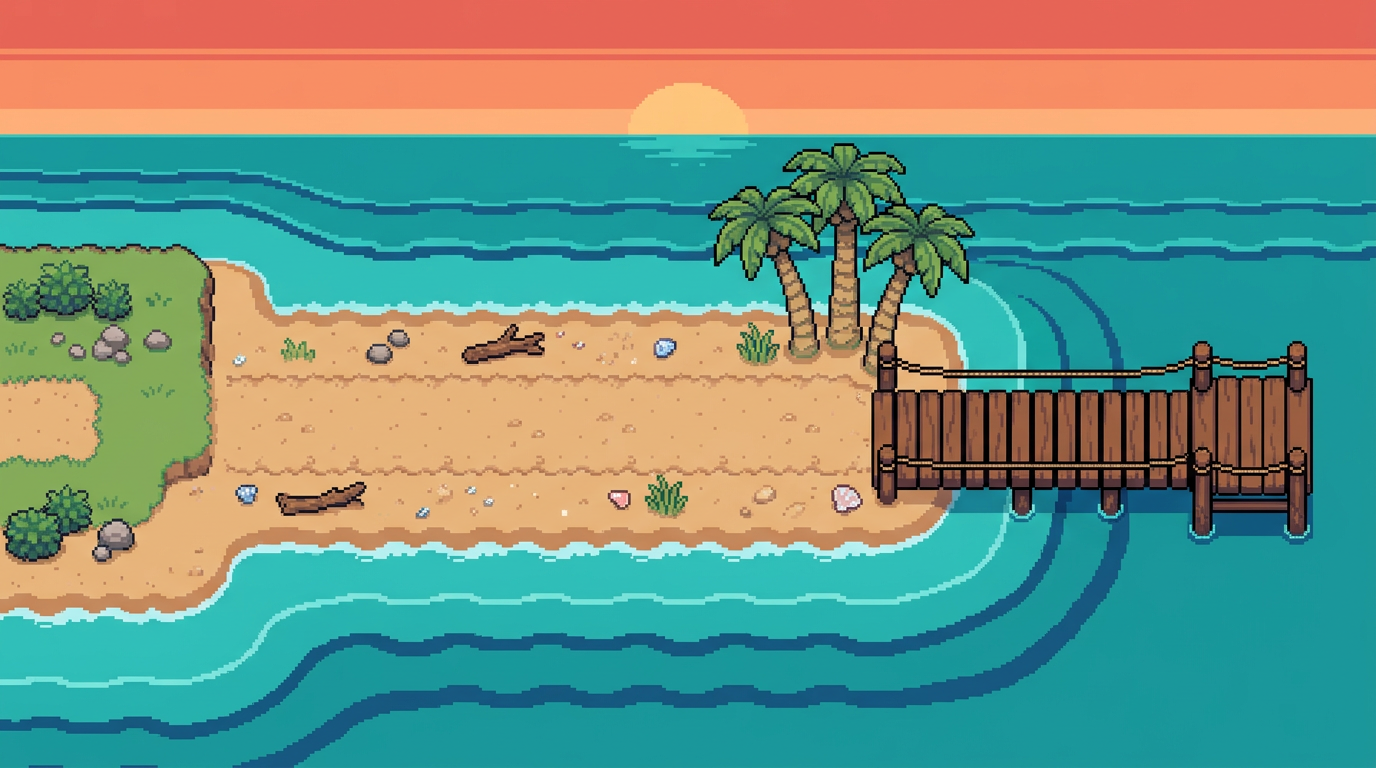
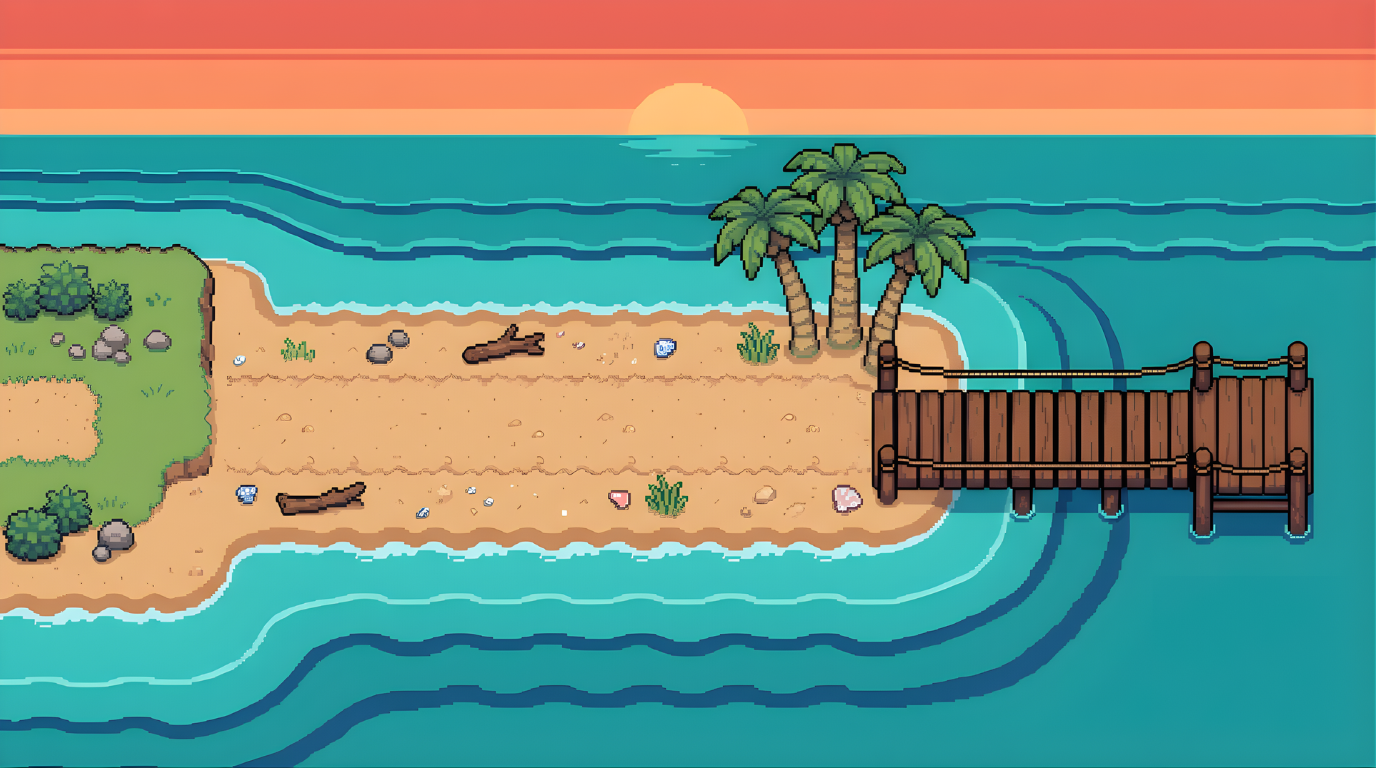
fix: swap in new backgrounds + rewrite Beach3 TMX for option2 layout
- Beach2: swap in upscaled bg (same layout, cleaner art)
- Beach3: swap to option2 bg (open beach, cave center-top, ship top-right)
- Complete TMX rewrite for new Beach3 layout:
  - 4 walkable zones (one big main-beach + upper-sand + right-sand + cave-grass)
  - Simpler collider set matching new terrain
  - Transition zone repositioned to right edge
  - Fishing zones along southern + right shore
- Updated spawn, enemy, duel NPC positions for new layout
- WATER_TOP adjusted from 640 to 580
- Walkable zone clamp now validates spawn point on create
  (finds nearest zone center if spawn is outside walkable areas)
- Updated smoke test 12 for new transition zone position
- Cleaned up alternate/backup bg files

diff --git a/src/scenes/Beach3Scene.ts b/src/scenes/Beach3Scene.ts
@@ -10,11 +10,11 @@ import { drawTMXDebug } from '../systems/TMXDebug';
 // ── Visual constants ──────────────────────────────────────────────────────────
 const W = 1280;
 const H = 720;
-const WATER_TOP = 640;
+const WATER_TOP = 580;   // water edge in new option2 bg (lower shore)
 
 // ── Pirate duel constants ─────────────────────────────────────────────────────
-const DUEL_X = 550;      // center of the two pirates (on grass plateau)
-const DUEL_Y = 350;      // grass area
+const DUEL_X = 350;      // center of the two pirates (open beach area)
+const DUEL_Y = 400;      // sandy beach
 const DUEL_SPACING = 60; // pixels between them
 const DUEL_APPROACH = 70; // approach distance to trigger
 
@@ -174,16 +174,16 @@ export default class Beach3Scene extends Phaser.Scene {
 
     // ── Player ────────────────────────────────────────────────────────────
     // Player enters Beach3 from the RIGHT (Beach1 is to the right).
-    // Spawn near the cave entrance area (bottom-right of the walkable sand).
+    // Spawn on the open beach, just left of the transition zone.
     let spawnX: number, spawnY: number;
     if (b1zone) {
       // Spawn just left of the transition zone so player faces into the scene
       spawnX = b1zone.x - 40;
       spawnY = b1zone.y + b1zone.height / 2;
     } else {
-      // Fallback — center of cave entrance area
-      spawnX = 1100;
-      spawnY = 520;
+      // Fallback — center of open beach
+      spawnX = 600;
+      spawnY = 420;
     }
     this.player = this.physics.add.sprite(spawnX, spawnY, 'pirate-idle-south-0');
     this.player.setDisplaySize(64, 64);
@@ -200,9 +200,26 @@ export default class Beach3Scene extends Phaser.Scene {
     this.physics.world.setBounds(this.walkBounds.x, this.walkBounds.y, this.walkBounds.width, this.walkBounds.height);
     this.physics.add.collider(this.player, this.colliderGroup);
 
-    // Initialize walkable zone tracking
-    this.lastValidX = this.player.x;
-    this.lastValidY = this.player.y;
+    // Initialize walkable zone tracking — ensure spawn is in a valid zone
+    if (this.isInWalkableZone(this.player.x, this.player.y)) {
+      this.lastValidX = this.player.x;
+      this.lastValidY = this.player.y;
+    } else {
+      // Spawn isn't in a walkable zone — find nearest zone center
+      let bestDist = Infinity;
+      for (const r of this.tmx.walkable) {
+        const cx = r.x + r.width / 2;
+        const cy = r.y + r.height / 2;
+        const dist = Math.hypot(this.player.x - cx, this.player.y - cy);
+        if (dist < bestDist) {
+          bestDist = dist;
+          this.lastValidX = cx;
+          this.lastValidY = cy;
+        }
+      }
+      // Teleport player to valid position
+      this.player.setPosition(this.lastValidX, this.lastValidY);
+    }
 
     // ── Shadow ────────────────────────────────────────────────────────────
     this.shadow = this.add.ellipse(this.player.x, this.player.y + 16, 28, 7, 0x000000, 0.20).setDepth(4);
@@ -515,10 +532,10 @@ export default class Beach3Scene extends Phaser.Scene {
   // ENEMIES (roaming)
   // ═══════════════════════════════════════════════════════════════════════════
   private spawnEnemies() {
-    // Enemies patrol the grassy plateau and sandy beach areas
+    // Enemies patrol the open sandy beach
     const spawns = [
-      { x: 530, y: 380, minX: 460, maxX: 620, enemy: rollBeach3Enemy() },
-      { x: 700, y: 510, minX: 600, maxX: 800, enemy: rollBeach3Enemy() },
+      { x: 250, y: 450, minX: 150, maxX: 400, enemy: rollBeach3Enemy() },
+      { x: 700, y: 480, minX: 550, maxX: 850, enemy: rollBeach3Enemy() },
     ];
 
     spawns.forEach(pos => {

diff --git a/e2e/smoke.spec.ts b/e2e/smoke.spec.ts
@@ -398,8 +398,8 @@ test.describe('Corsair Catch Smoke Tests', () => {
     expect(zone).not.toBeNull();
     // Zone should be on the right side (x > 1000)
     expect(zone!.x).toBeGreaterThan(1000);
-    // Zone should be in the lower half (y > 400)
-    expect(zone!.y).toBeGreaterThan(400);
+    // Zone should be in the walkable area (y > 250 — new option2 bg has higher beach)
+    expect(zone!.y).toBeGreaterThan(250);
   });
 
   test('13 — Whiteout returns to Beach with chest hidden', async ({ page }) => {
